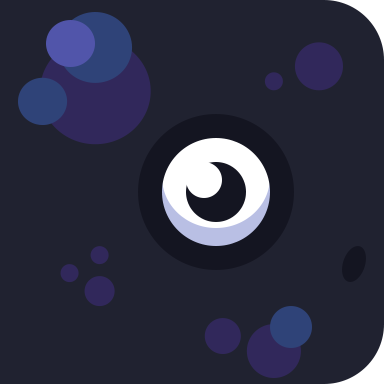
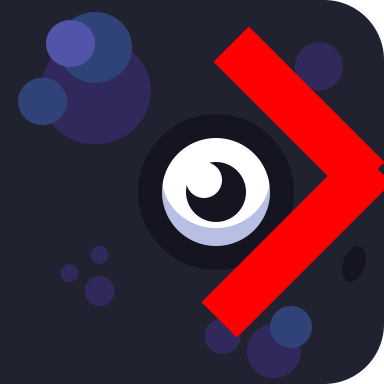
debug

Changed region(s): [[0.5312, 0.0625, 1.0, 0.875]]

diff --git a/src/scripts/Snake.js b/src/scripts/Snake.js
@@ -28,7 +28,7 @@ export default class Snake {
     /** @type {number} */
     this.GRID_HEIGHT = gridHeight;
     /** @type {number} */
-    this.timeBetweenEachMove = timeBetweenEachMove;
+    this.timeBetweenEachMove = 500;
 
     /** @type {number} */
     this.direction = 0;
@@ -122,6 +122,15 @@ export default class Snake {
       });  */
   }
 
+  // https://www.w3resource.com/javascript-exercises/javascript-math-exercise-33.php
+  /** 
+   * Converts degrees to radians
+   * @param {Number} degrees - The degree value that should be converted to radians
+   */
+  degreesToRadians(degrees) {
+    return degrees * (Math.PI / 180);
+  }
+
   // Arrow and WASD keys controls
   /**
    * Handle changing direction correctly.
@@ -149,6 +158,14 @@ export default class Snake {
       if (this.snakeX !== this.storedSnakePosition[0] || this.snakeY !== this.storedSnakePosition[1]) {
         this.canChangeDirection = true;
       }
+    }
+
+    if (this.direction !== 90 && this.direction !== 270) {
+      this.snake.setRotation(this.degreesToRadians(this.direction));
+    } else if (this.direction === 90) {
+      this.snake.setRotation(this.degreesToRadians(270));
+    } else if (this.direction === 270) {
+      this.snake.setRotation(this.degreesToRadians(90));
     }
   }
 
